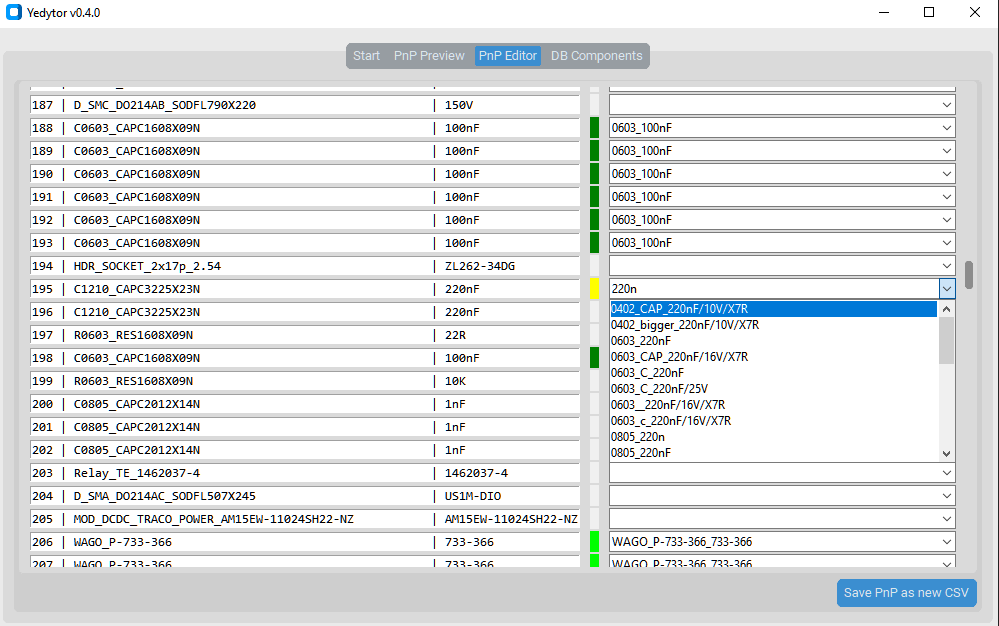
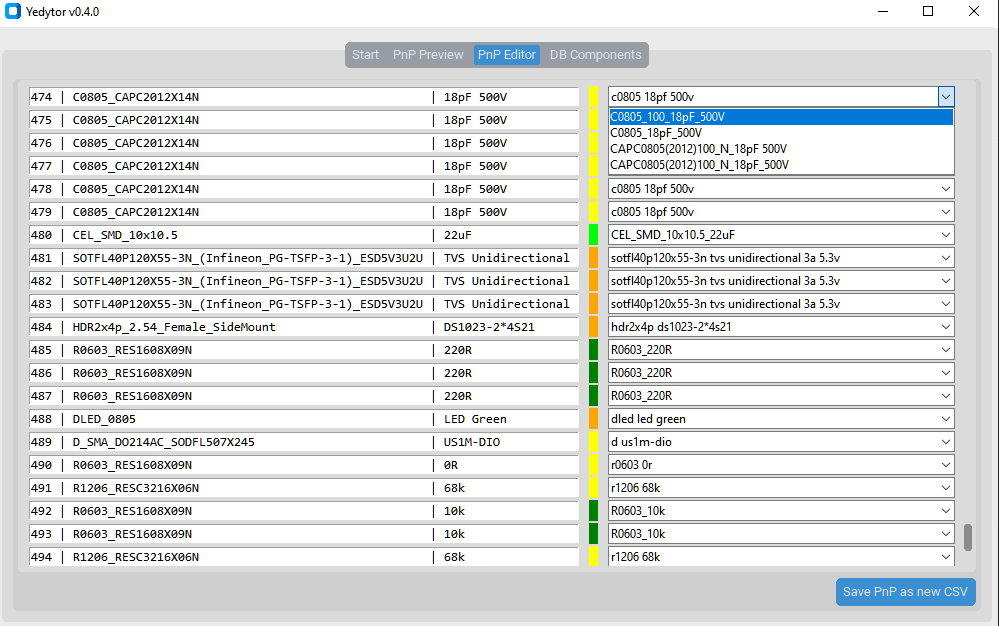
PnP editor: each combobox is assigned filtered list

diff --git a/src/app.py b/src/app.py
@@ -388,6 +388,11 @@ class PnPConfig(customtkinter.CTkFrame):
 # -----------------------------------------------------------------------------
 
 class PnPEditor(customtkinter.CTkFrame):
+    CL_NOMATCH = "orange"
+    CL_FILTER = "yellow"
+    CL_AUTO_SEL = "lime"
+    CL_MAN_SEL = "green"
+
     def __init__(self, master, **kwargs):
         super().__init__(master, **kwargs)
 
@@ -451,16 +456,31 @@ class PnPEditor(customtkinter.CTkFrame):
                 self.scrollableframe.grid_columnconfigure(2, weight=1)
 
     def try_select_component(self, cbx: tkinter.ttk.Combobox, lbl: tkinter.Label, ftprint: str, cmnt: str):
-        possible_component = ftprint + "_" + cmnt
+        filter = ftprint + "_" + cmnt
         try:
-            self.components_all.index(possible_component) # may raise exception if not found
-            cbx.set(possible_component)
-            # mark autoselection with ligh green color
-            lbl.config(background="lime")
-            logging.info(f"Matching component found: {possible_component}")
+            self.components_all.index(filter) # may raise exception if not found
+            cbx.set(filter)
+            # mark autoselection
+            lbl.config(background=self.CL_AUTO_SEL)
+            logging.info(f"Matching component found: {filter}")
         except:
-            # not found
-            pass
+            # not found; try to create a good filter expression
+            # "1206_R_1,2k" -> "1206"
+            ftprint_prefix = ftprint.split("_")
+            if len(ftprint_prefix):
+                ftprint_prefix = ftprint_prefix[0]
+                filter = ftprint_prefix + " " + cmnt
+                # assign a filtered list of components
+                filtered_components = components.items_filtered(filter)
+                cbx.configure(values=filtered_components)
+                # set value to the filter
+                cbx.set(filter.lower())
+                if len(filtered_components):
+                    # mark filter
+                    lbl.config(background=self.CL_FILTER)
+                else:
+                    # mark no matching component in database
+                    lbl.config(background=self.CL_NOMATCH)
 
     def check_selected_columns(self, ) -> bool:
         return proj.pnp_footprint_col < proj.pnp_grid.ncols \
@@ -474,21 +494,23 @@ class PnPEditor(customtkinter.CTkFrame):
             selected_idx = self.cbx_component_list.index(event.widget)
             comment = proj.pnp_grid.rows()[selected_idx][proj.pnp_comment_col]
             ftprint = proj.pnp_grid.rows()[selected_idx][proj.pnp_footprint_col]
-            # scan all items and if comment:footprint matches -> apply
 
+            # scan all items and if comment:footprint matches -> apply
             for i, row in enumerate(proj.pnp_grid.rows()):
                 if i == selected_idx:
-                    # add green marker that this is a final value
-                    self.lbl_marker_list[i].config(background="green")
+                    # add marker that this is a final value
+                    self.lbl_marker_list[i].config(background=self.CL_MAN_SEL)
                     continue
-                if self.cbx_component_list[i].get() != "":
+                marker_bg = self.lbl_marker_list[i].cget("background")
+                # if already selected, skip this item
+                if marker_bg == self.CL_MAN_SEL:
                     continue
                 if row[proj.pnp_comment_col] == comment and row[proj.pnp_footprint_col] == ftprint:
                     # found: select the same component
                     logging.debug(f"Applying '{selected_component}' to item #{i}")
                     self.cbx_component_list[i].set(selected_component)
-                    # add green marker that this is a final value
-                    self.lbl_marker_list[i].config(background="green")
+                    # add marker that this is a final value
+                    self.lbl_marker_list[i].config(background=self.CL_MAN_SEL)
         except Exception as e:
             logging.warning(f"Applying selection to the matching items failed: {e}")
         self.btn_save.configure(state=tkinter.NORMAL)
@@ -507,11 +529,16 @@ class PnPEditor(customtkinter.CTkFrame):
             selected_idx = self.cbx_component_list.index(event.widget)
             try:
                 self.components_all.index(filter)
-                # filter found on component list: add green marker that this is a final value
-                self.lbl_marker_list[selected_idx].config(background="green")
+                # filter found on component list: add marker that this is a final value
+                self.lbl_marker_list[selected_idx].config(background=self.CL_MAN_SEL)
             except:
-                # add yellow marker that this is a filter, not value
-                self.lbl_marker_list[selected_idx].config(background="yellow")
+                if len(components_filtered):
+                    # mark this is a filter, not value
+                    self.lbl_marker_list[selected_idx].config(background=self.CL_FILTER)
+                else:
+                    # mark no matching component in database
+                    self.lbl_marker_list[selected_idx].config(background=self.CL_NOMATCH)
+
         else:
             logging.debug(f"Filter too short: use full list")
             event.widget.configure(values=self.components_all)

diff --git a/TODO.md b/TODO.md
@@ -27,5 +27,6 @@
   [x] możliwość oznaczenia jako Hidden
   [x] przeniesienie z Home info o bazie i przycisku do skanera
 [ ] osobne PnP dla top/bottom - po edycji trzeba zapisać osobno?
-[ ] zapisywanie niekompletnego edytoanego pliku, z możliwością kontynuacji
-[ ] przed zapisaniem sprawdź status każdego komponentu, zabroń zapisać jeśli szare/źółte
+[ ] zapisywanie niekompletnego edytowanego pliku, z możliwością kontynuacji
+[ ] przed zapisaniem sprawdź status każdego komponentu, zabroń zapisać jeśli nie-zielone
+[ ] progressbar: wybrane/wszystkie

diff --git a/CHANGELOG.md b/CHANGELOG.md
@@ -10,6 +10,7 @@ See the [keepachangelog.com description](https://keepachangelog.com/en/1.0.0/).
   * PnP editor: automatically select component if "<footprint>_<comment>" found
   * PnP editor: components list narrowing: enter "603" for footprint or "603 10k" for better match
   * PnP editor: colored items: lime->matched automatically, green->selected manually
+  * PnP editor: each combobox is assigned filtered list of all components upon loading
 * Changed
   * DB components editor redesigned - now it's able to handle even 10'000 elements
 * Deprecated
